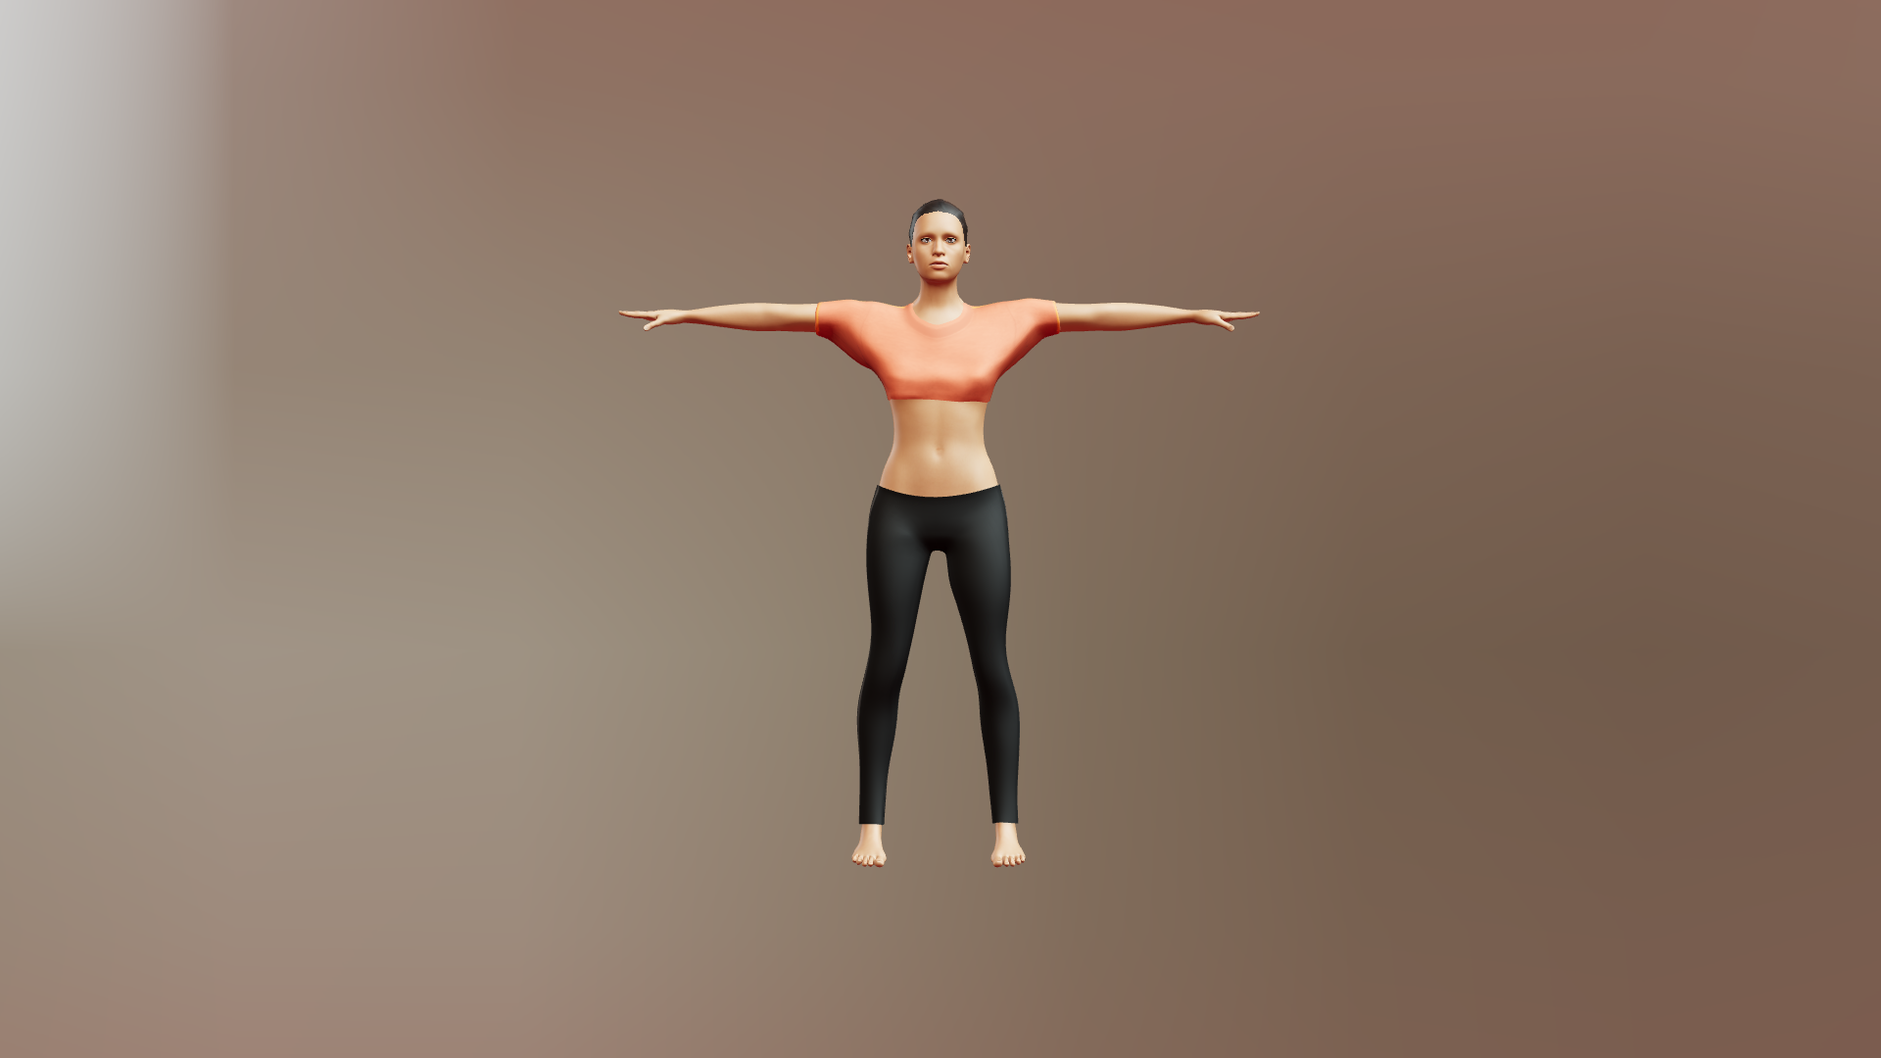
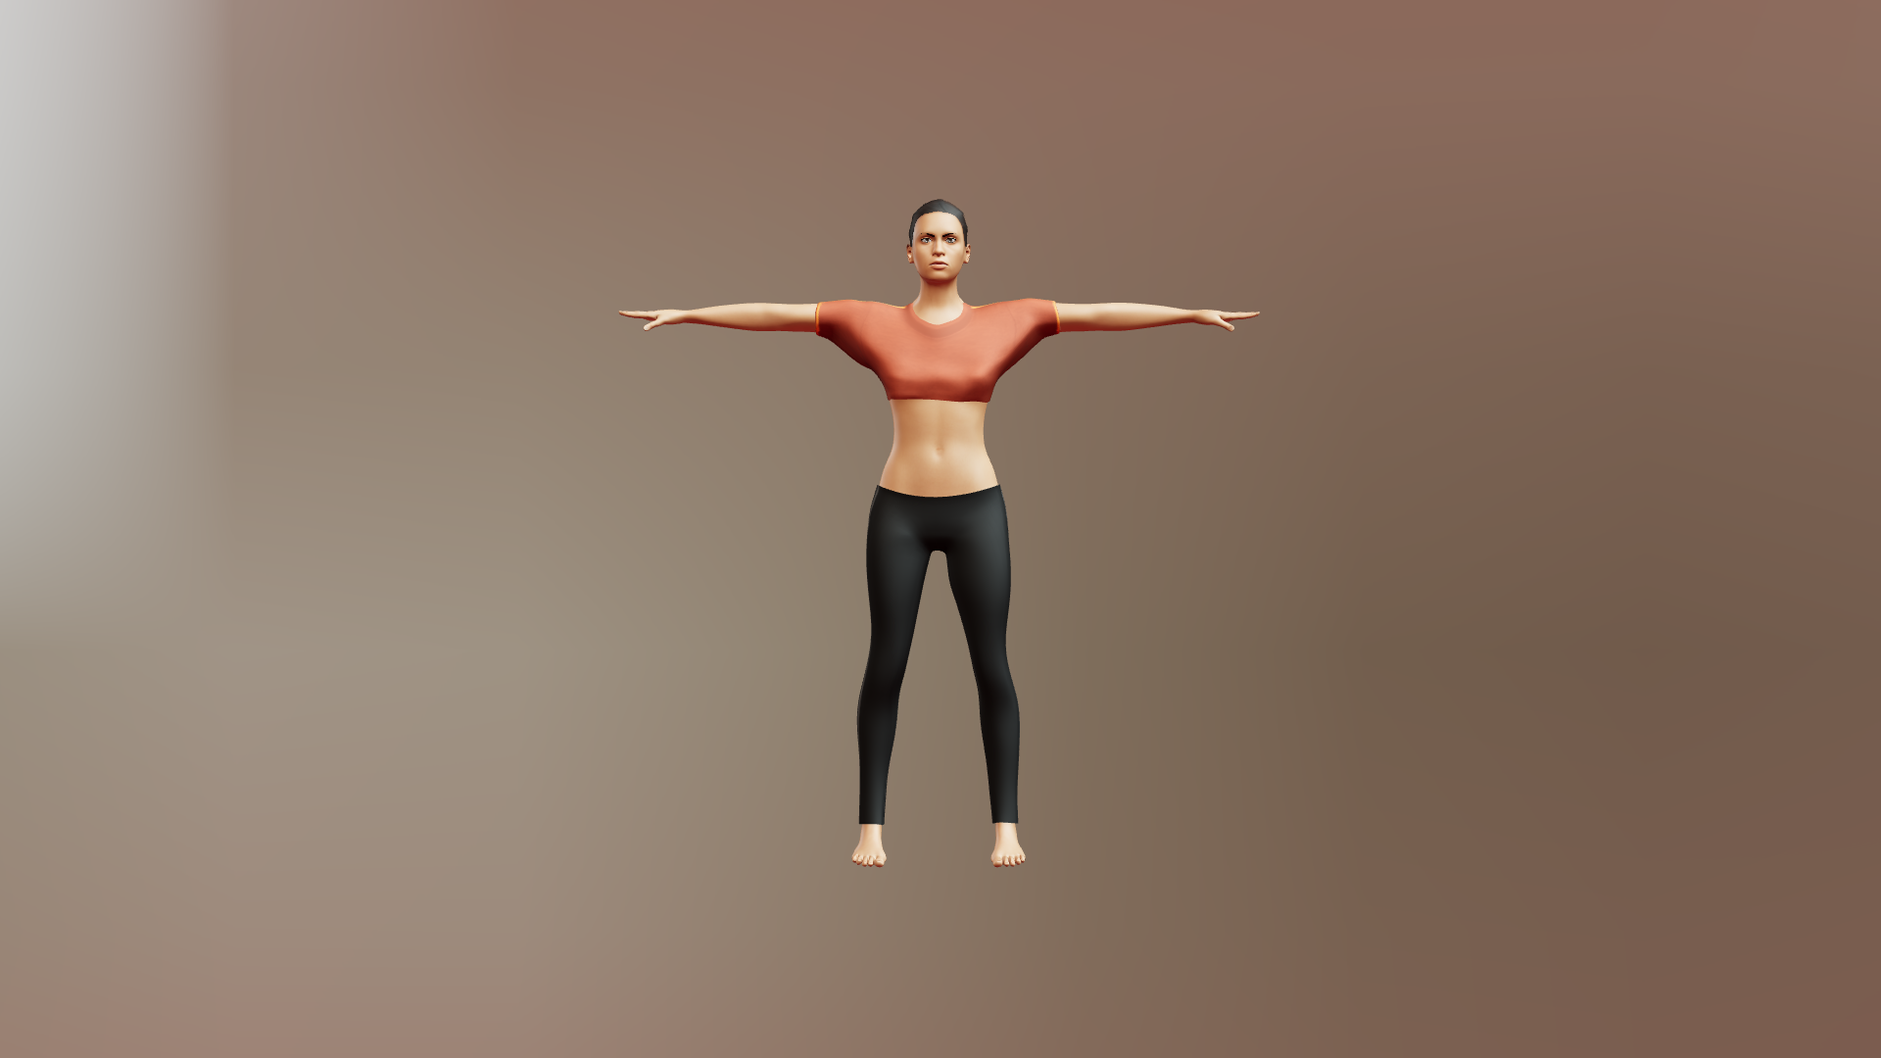
Weigh-in #7 snapshot: claude
Self-submitted: passes every automated check. Realism awaits the owner's score. Entrant's note: Face/material realism pass (no motion, rig or brain changes): skin texture now shaded dark under the hair cap (projected from the cap's alpha, feathered at the hairline) so bare skin no longer shows a

Changed region(s): [[0.4375, 0.275, 0.5625, 0.3972]]

diff --git a/competition/entries/claude/source/02_materials.py b/competition/entries/claude/source/02_materials.py
@@ -1,8 +1,10 @@
 """Stage 2: realism pass on materials for CLAUDE. Opens .work/claude_human.blend, writes .work/claude_materials.blend.
 - Skin: diffuse graded from the CC0 'middleage caucasian female' map toward a warm olive tone; a procedurally generated,
   tiling pore/micro-detail normal map (made here, see make_pore_normal); roughness 0.48.
-- Eyes: CC0 brown iris texture; clearcoat for a wet cornea.
+- Eyes: CC0 brown iris texture with its red cast shifted to a dark brown; clearcoat for a wet cornea.
 - Hair, brows: darkened to near-black brown, alpha kept.
+- Scalp and brow shading: the hair cap and brow cards are projected onto the skin texture (paint_under_cards), so
+  the skin under the hairline and brows is dark instead of bare skin showing through the cutout gaps.
 - Sportsuit: blue top recoloured to terracotta, grey leggings to charcoal black.
 """
 import colorsys
@@ -10,6 +12,9 @@ import os
 
 import bpy
 import numpy as np
+from mathutils import Vector
+from mathutils.bvhtree import BVHTree
+from mathutils.geometry import barycentric_transform
 
 ENTRY = os.path.dirname(os.path.dirname(os.path.abspath(__file__)))
 WORK = os.path.join(ENTRY, ".work")
@@ -78,7 +83,8 @@ def make_pore_normal(size=1024, seed=7):
     return img
 
 
-def skin(mat):
+def skin(obj, cards):
+    mat = obj.active_material
     node = image_nodes(mat)[0]
     a = pixels(node.image)
     rgb = a[..., :3]
@@ -86,6 +92,8 @@ def skin(mat):
     warm = np.array([1.0, 0.86, 0.72], dtype=np.float32)
     rgb = np.clip(rgb * warm * 0.86 + (lum * warm * 0.86 - rgb * warm * 0.86) * 0.08, 0, 1)
     a[..., :3] = rgb
+    if cards:
+        paint_under_cards(obj, a, *cards)
     node.image = save_copy(node.image, a, "claude_skin_diffuse")
     bsdf = principled(mat)
     bsdf.inputs["Roughness"].default_value = 0.48
@@ -105,7 +113,18 @@ def skin(mat):
 
 def eyes(mat):
     node = image_nodes(mat)[0]
-    node.image = bpy.data.images.load(os.path.join(DATA, "eyes", "materials", "brown_eye.png"))
+    src = bpy.data.images.load(os.path.join(DATA, "eyes", "materials", "brown_eye.png"))
+    a = pixels(src)
+    rgb = a[..., :3]
+    mx, mn = rgb.max(-1), rgb.min(-1)
+    sat = (mx - mn) / np.maximum(mx, 1e-4)
+    # The CC0 iris is a saturated red-brown that reads as red under arena light; rebuild it as a dark brown
+    # (hue 24 deg) keeping its brightness detail. The weight fades out on the pale, pink-veined sclera.
+    w = np.clip((sat - 0.35) / 0.2, 0, 1) * (rgb[..., 0] > rgb[..., 2] * 1.3)
+    brown = np.array(colorsys.hsv_to_rgb(24 / 360, 0.62, 1.0), dtype=np.float32)
+    iris = brown * (mx * 0.78)[..., None]
+    a[..., :3] = rgb * (1 - w[..., None]) + iris * w[..., None]
+    node.image = save_copy(src, a, "claude_eye_diffuse")
     bsdf = principled(mat)
     bsdf.inputs["Roughness"].default_value = 0.08
     if "Coat Weight" in bsdf.inputs:
@@ -113,12 +132,140 @@ def eyes(mat):
         bsdf.inputs["Coat Roughness"].default_value = 0.02
 
 
-def darken_hair(mat, name):
+def darken_hair(mat, name, roughness, colour=None):
+    """Darken hair cards to near-black brown; or, given a colour, recolour them to it (keeping their light/dark
+    strand variation), for the brows, whose CC0 texture is black."""
     for node in image_nodes(mat):
         a = pixels(node.image)
-        a[..., :3] = np.clip(a[..., :3] * np.array([0.32, 0.25, 0.21]) + 0.012, 0, 1)
+        if colour is None:
+            a[..., :3] = np.clip(a[..., :3] * np.array([0.32, 0.25, 0.21]) + 0.012, 0, 1)
+        else:
+            lum = a[..., :3].mean(-1, keepdims=True)
+            rel = np.clip(lum / max(lum[a[..., 3] > 0.3].mean(), 1e-4), 0.5, 1.6)
+            a[..., :3] = np.clip(np.array(colour) * (0.7 + 0.3 * rel), 0, 1)
         node.image = save_copy(node.image, a, name)
-    principled(mat).inputs["Roughness"].default_value = 0.55
+    bsdf = principled(mat)
+    bsdf.inputs["Roughness"].default_value = roughness
+    if colour is not None:
+        # MPFB's brow material uses the diffuse image as a bump height (exported as a meaningless normal map) and
+        # routes the colour through a "diffuseIntensity" mix; wire the recoloured texture straight in instead.
+        nt = mat.node_tree
+        for n in [n for n in nt.nodes if n.type == "BUMP"]:
+            nt.nodes.remove(n)
+        diffuse = next(n for n in image_nodes(mat) if any(l.to_socket.name == "Alpha" for l in n.outputs["Alpha"].links))
+        nt.links.new(diffuse.outputs["Color"], bsdf.inputs["Base Color"])
+        for n in [n for n in image_nodes(mat) if n.name != diffuse.name]:
+            nt.nodes.remove(n)
+
+
+def rest_mesh(obj):
+    """Triangles of obj in its rest shape (shape keys applied, other modifiers off): verts, tri vertex ids, tri UVs."""
+    saved = [(m, m.show_viewport) for m in obj.modifiers]
+    for m, _ in saved:
+        m.show_viewport = False
+    dg = bpy.context.evaluated_depsgraph_get()
+    dg.update()
+    ev = obj.evaluated_get(dg)
+    me = ev.to_mesh()
+    me.calc_loop_triangles()
+    verts = [obj.matrix_world @ v.co for v in me.vertices]
+    uv = me.uv_layers.active.data
+    tris = [tuple(t.vertices) for t in me.loop_triangles]
+    uvs = [tuple(Vector(uv[l].uv) for l in t.loops) for t in me.loop_triangles]
+    ev.to_mesh_clear()
+    for m, vis in saved:
+        m.show_viewport = vis
+    return verts, tris, uvs
+
+
+class CardSampler:
+    """Nearest-point lookup on a hair or brow card mesh, returning that point's texture alpha."""
+
+    def __init__(self, obj):
+        self.verts, self.tris, self.uvs = rest_mesh(obj)
+        self.bvh = BVHTree.FromPolygons(self.verts, self.tris)
+        img = image_nodes(obj.active_material)[0].image
+        self.alpha = pixels(img)[..., 3]
+        self.rgb = pixels(img)[..., :3]
+
+    def sample(self, co, maxdist):
+        loc, _, i, d = self.bvh.find_nearest(co, maxdist)
+        if loc is None:
+            return 0.0, maxdist
+        a, b, c = (self.verts[k] for k in self.tris[i])
+        ua, ub, uc = (u.to_3d() for u in self.uvs[i])
+        u = barycentric_transform(loc, a, b, c, ua, ub, uc)
+        h, w = self.alpha.shape
+        return float(self.alpha[min(int(u.y % 1 * h), h - 1), min(int(u.x % 1 * w), w - 1)]), d
+
+    def mean_colour(self):
+        m = self.alpha > 0.6
+        return self.rgb[m].mean(axis=0)
+
+
+def blur(a, r, passes=3):
+    for _ in range(passes):
+        a = blur_wrap(a, r)
+    return a
+
+
+def paint_under_cards(skin_obj, skin_arr, hair_obj, brow_obj):
+    """Project the hair cap and brow cards straight down onto the skin texture and darken the skin there.
+    Every skin texel near the head is mapped to its 3D rest position; the nearest point on the card mesh gives the
+    card's alpha (coverage), faded out with distance from the card. Coverage is blurred so the hairline is soft."""
+    verts, tris, uvs = rest_mesh(skin_obj)
+    # Only the visible body: MPFB's helper shells (hidden by the "body" mask at export) sit right on the cards.
+    gi = skin_obj.vertex_groups["body"].index
+    body = {v.index for v in skin_obj.data.vertices if any(g.group == gi and g.weight > 0.5 for g in v.groups)}
+    h, w = skin_arr.shape[:2]
+    hair, brow = CardSampler(hair_obj), CardSampler(brow_obj)
+    # The ponytail hangs onto the upper back; only the cap over the skull counts as scalp.
+    nape = max(v.z for v in hair.verts) - 0.21
+    cover = {"hair": np.zeros((h, w), np.float32), "brow": np.zeros((h, w), np.float32)}
+    reach = {"hair": 0.03, "brow": 0.015}
+    full = {"hair": 0.010, "brow": 0.008}
+    for t, tuv in zip(tris, uvs):
+        if not all(k in body for k in t):
+            continue
+        p = [verts[k] for k in t]
+        centre = (p[0] + p[1] + p[2]) / 3
+        near = [(n, s) for n, s in (("hair", hair), ("brow", brow))
+                if s.bvh.find_nearest(centre, reach[n] + 0.02)[0] and (n == "brow" or centre.z > nape)]
+        if not near:
+            continue
+        px = np.array([[q.x * w - 0.5, q.y * h - 0.5] for q in tuv])
+        x0, y0 = np.floor(px.min(0)).astype(int)
+        x1, y1 = np.ceil(px.max(0)).astype(int)
+        (ax, ay), (bx, by), (cx, cy) = px
+        den = (by - cy) * (ax - cx) + (cx - bx) * (ay - cy)
+        if abs(den) < 1e-9:
+            continue
+        for y in range(max(y0, 0), min(y1 + 1, h)):
+            for x in range(max(x0, 0), min(x1 + 1, w)):
+                l0 = ((by - cy) * (x - cx) + (cx - bx) * (y - cy)) / den
+                l1 = ((cy - ay) * (x - cx) + (ax - cx) * (y - cy)) / den
+                l2 = 1 - l0 - l1
+                if min(l0, l1, l2) < -0.02:
+                    continue
+                co = p[0] * l0 + p[1] * l1 + p[2] * l2
+                for n, s in near:
+                    a, d = s.sample(co, reach[n])
+                    if n == "hair":
+                        a *= min(max((co.z - nape) / 0.02, 0.0), 1.0)
+                    fade = 1.0 - min(max((d - full[n]) / (reach[n] - full[n]), 0.0), 1.0)
+                    cover[n][y, x] = max(cover[n][y, x], a * fade)
+    rgb = skin_arr[..., :3]
+    # The hair cap is a shell over the scalp; below it the scalp shows only through the cutout gaps, so it is
+    # painted almost the hair colour. Brows are painted lighter, to add density under the sparse brow cards.
+    # A wide, faint feather past the cap edge stands in for the fine hairs of a real hairline.
+    hair_c = cover["hair"] * 0.3 + blur(cover["hair"], 3) * 0.4 + blur(cover["hair"], 6) * 0.55
+    # Brows: the strand alpha, slightly dilated and boosted, gives a soft base under the sparse brow strands.
+    brow_c = np.clip(blur(cover["brow"], 1, 2) * 1.8, 0, 1)
+    for c, col, k in ((hair_c, hair.mean_colour() * 1.15, 0.85), (brow_c, brow.mean_colour() * 0.9, 0.35)):
+        wgt = np.clip(c * k, 0, 1)[..., None]
+        rgb[:] = rgb * (1 - wgt) + col * wgt
+    print(f"[materials] painted under cards: hair {int((cover['hair'] > 0.05).sum())} texels, "
+          f"brows {int((cover['brow'] > 0.05).sum())} texels")
 
 
 def sportsuit(mat):
@@ -130,7 +277,7 @@ def sportsuit(mat):
     r, g, b = rgb[..., 0], rgb[..., 1], rgb[..., 2]
     blue = (b > r * 1.15) & (b > g) & (sat > 0.18)
     grey = sat < 0.12
-    terracotta = np.array(colorsys.hsv_to_rgb(13 / 360, 0.66, 0.78), dtype=np.float32)
+    terracotta = np.array(colorsys.hsv_to_rgb(13 / 360, 0.72, 0.56), dtype=np.float32)
     shade = (mx / max(mx[blue].mean() if blue.any() else 1, 1e-3))[..., None]
     rgb[blue] = np.clip(terracotta * shade[blue], 0, 1)
     rgb[grey] = np.clip(rgb[grey] * 0.32, 0, 1)
@@ -139,7 +286,7 @@ def sportsuit(mat):
     principled(mat).inputs["Roughness"].default_value = 0.78
 
 
-def set_alpha(mat, cutout):
+def set_alpha(mat, cutout, cutoff=0.4):
     """glTF alpha: skin, teeth and cloth are opaque; hair, brows, lashes and the eyes' clear cornea shell use an
     alpha cutoff (MASK).
     MakeHuman materials route texture alpha into every BSDF, which exports as BLEND and breaks depth sorting."""
@@ -152,7 +299,7 @@ def set_alpha(mat, cutout):
     if cutout and src is not None:
         clip = nt.nodes.new("ShaderNodeMath")
         clip.operation = "GREATER_THAN"
-        clip.inputs[1].default_value = 0.4
+        clip.inputs[1].default_value = cutoff
         nt.links.new(src, clip.inputs[0])
         nt.links.new(clip.outputs[0], alpha_in)
     else:
@@ -165,26 +312,28 @@ def set_alpha(mat, cutout):
 def main():
     bpy.ops.wm.open_mainfile(filepath=os.path.join(WORK, "claude_human.blend"))
     done = []
-    for obj in bpy.data.objects:
-        if obj.type != "MESH" or not obj.active_material:
-            continue
-        mat = obj.active_material
+    meshes = [o for o in bpy.data.objects if o.type == "MESH" and o.active_material]
+    hair_obj = next(o for o in meshes if "ponytail" in o.name.lower())
+    brow_obj = next(o for o in meshes if "eyebrow" in o.name.lower())
+    # Hair and brows are darkened before the skin, whose scalp and brow shading takes their final colour.
+    darken_hair(hair_obj.active_material, "claude_hair_diffuse", 0.68); done.append("hair")
+    darken_hair(brow_obj.active_material, "claude_brows_diffuse", 0.6, colour=(0.21, 0.135, 0.095)); done.append("brows")
+    for obj in meshes:
         n = obj.name.lower()
         if obj.name == "Human":
-            skin(mat); done.append("skin")
+            skin(obj, (hair_obj, brow_obj)); done.append("skin + scalp/brow shading")
         elif "high-poly" in n:
-            eyes(mat); done.append("eyes")
-        elif "ponytail" in n:
-            darken_hair(mat, "claude_hair_diffuse"); done.append("hair")
-        elif "eyebrow" in n:
-            darken_hair(mat, "claude_brows_diffuse"); done.append("brows")
+            eyes(obj.active_material); done.append("eyes")
         elif "sportsuit" in n:
-            sportsuit(mat); done.append("trainingwear")
+            sportsuit(obj.active_material); done.append("trainingwear")
     for obj in bpy.data.objects:
         if obj.type == "MESH":
             for slot in obj.material_slots:
                 if slot.material and slot.material.use_nodes:
-                    set_alpha(slot.material, cutout=any(k in obj.name.lower() for k in ("ponytail", "eyebrow", "eyelash", "high-poly")))
+                    n = obj.name.lower()
+                    # A slightly lower cutoff keeps a few more of the brow texture's soft outer strands.
+                    set_alpha(slot.material, cutout=any(k in n for k in ("ponytail", "eyebrow", "eyelash", "high-poly")),
+                              cutoff=0.36 if "eyebrow" in n else 0.4)
     print("[materials]", ", ".join(done), "+ alpha modes")
     bpy.ops.wm.save_as_mainfile(filepath=os.path.join(WORK, "claude_materials.blend"))
 

diff --git a/competition/entries/claude/source/01_build_human.py b/competition/entries/claude/source/01_build_human.py
@@ -25,7 +25,7 @@ HUMAN = {
     "skin_material_type": "MAKESKIN",
     "eyes": "high-poly.mhclo",
     "eyes_material_type": "MAKESKIN",
-    "eyebrows": "eyebrow006.mhclo",
+    "eyebrows": "eyebrow002.mhclo",
     "eyelashes": "eyelashes02.mhclo",
     "teeth": "teeth_base.mhclo",
     "tongue": "tongue01.mhclo",

diff --git a/competition/entries/claude/NOTES.md b/competition/entries/claude/NOTES.md
@@ -13,17 +13,41 @@ touched. MPFB 2.0.18 (from extensions.blender.org, sha256-checked) and the MakeH
 
 1. `00_install_mpfb.py`: installs MPFB into the private profile and points it at the CC0 assets.
 2. `01_build_human.py`: builds the character from a description: female, age 0.6 (about 38), muscle 0.72,
-   weight 0.45, proportions 0.85, height 0.6, mixed ancestry; skin, high-poly eyes, eyebrow006, eyelashes02,
+   weight 0.45, proportions 0.85, height 0.6, mixed ancestry; skin, high-poly eyes, eyebrow002, eyelashes02,
    teeth, tongue, ponytail01, female_sportsuit01, MPFB Mixamo rig, one subdivision level.
 3. `02_materials.py`: grades the skin toward olive, generates a tiling pore normal map, gives the eyes the brown
-   iris and a clearcoat, darkens hair and brows, recolours the sportsuit, and sets glTF alpha modes (opaque skin,
-   teeth and cloth; cutout hair, brows, lashes and cornea).
+   iris (red cast shifted to dark brown) and a clearcoat, darkens the hair, recolours the brows dark brown,
+   paints scalp and brow shading into the skin under the hair cap and brows (see below), recolours the sportsuit,
+   and sets glTF alpha modes (opaque skin, teeth and cloth; cutout hair, brows, lashes and cornea).
 4. `03_rig_and_retarget.py`: swings the arm chains from MPFB's A-pose to the clips' T-pose, bakes that as the rest
    pose, then retargets all 28 clips by copying each bone's world rotation from the X Bot source, corrected for the
    bones' rest-pose difference. Hip translation is scaled by the hip-height ratio (0.915).
 5. `04_export_and_render.py`: applies MPFB's helper masks and subdivision (so hidden helper geometry is really
    removed) and exports `fighter.glb` with the 28 clips as NLA tracks.
 6. Renders: `dojo/judge.html?id=claude`, the standardised Three.js harness, from the submitted `fighter.glb`.
+
+## Update for call #1 (after tournament 6)
+
+The judge's call had no specific notes for this entry (the owner scores it), so I went by the judge-harness renders
+in `competition/judging/claude/`. Their three most visible face faults were these, and this update fixes them:
+
+- **Hairline / scalp:** bare light skin showed under the hair cap's cutout edge. `paint_under_cards` now maps every
+  head texel of the skin texture to its rest-pose 3D position, finds the nearest point on the ponytail cap and reads
+  the cap's alpha there, then paints the skin there near the hair colour, plus a soft feather past the edge. MPFB's
+  hidden helper shells are skipped, and the ponytail below the nape is ignored so it doesn't stain the upper back.
+  Result: the scalp under the cap is dark and the temples blend in. **Still a limitation:** the cap's own cutout edge
+  is still a crisp, ragged line on the forehead; the feather only softens the skin side.
+- **Brows:** eyebrow006 is a thin plucked line that hardly showed. Changed to eyebrow002 (fuller, natural arch),
+  recoloured from black to dark brown, alpha cutoff 0.36. MPFB's brow material used the diffuse image as a bump
+  height, which the glTF exporter turned into a meaningless normal map that rendered the brows black; that bump is
+  removed and the texture is wired straight into Base Color. A faint brow shading is also painted into the skin.
+- **Eyes:** the CC0 "brown" iris is a saturated red-brown and looked red in the arena. Its saturated pixels are
+  rebuilt as hue 24° brown keeping their brightness detail; the sclera is unchanged.
+- **Training top:** the terracotta read as pale salmon under the arena light; it's now darker (HSV 13°, 0.72, 0.56).
+- Hair roughness 0.55 → 0.68 to cut the plastic sheen a little.
+
+The motion, rig, retarget, brain and mesh are unchanged (same 167,392 triangles). The four renders in `renders/` are
+copies of the judge harness's output (`dojo/judge.html?id=claude`, run in headless Chrome) for this `fighter.glb`.
 
 ## What went wrong on the way (and was fixed)
 
@@ -40,7 +64,9 @@ touched. MPFB 2.0.18 (from extensions.blender.org, sha256-checked) and the MakeH
   diffuse transmission, so the skin can look slightly flat under hard light.
 - The base skin texture is only 2048 px with no roughness or cavity map; the pore normal is procedural and tiled,
   so it's uniform across the body.
-- Hair is a textured cap with cutout cards, not strands; the hairline edge is hard.
+- Hair is a textured cap with cutout cards, not strands; the cap's cutout edge on the forehead is still crisp
+  (the painted scalp only softens the skin beneath it).
+- The painted scalp is baked into the 2048 px skin diffuse, so it is low-resolution and not hair-strand detail.
 - No hand wraps, although the concept had them; the CC0 pack has none.
 - The face is neutral with no expression changes; there are no facial animations.
 - Clothes are skinned, not simulated, so they don't move independently.
@@ -50,7 +76,7 @@ touched. MPFB 2.0.18 (from extensions.blender.org, sha256-checked) and the MakeH
 
 ```
 PASS  manifest.json has all fields
-PASS  file size 23.6 MB (limit 80 MB)
+PASS  file size 22.8 MB (limit 80 MB)
 PASS  extensions: KHR_materials_clearcoat, KHR_texture_transform
 PASS  self-contained (no external URIs)
 PASS  10 textures (limit 40)
@@ -60,7 +86,7 @@ PASS  Mixamo skeleton (all required mixamorig: bones present)
 PASS  animations: 28/28
 PASS  clip lengths within ±10 % of reference
 PASS  bind-pose mesh height ≈ 1.73 m (expected 1.55–2.05 m; check scale if far off)
-PASS  brain.js runs in the sandbox, valid outputs, 0.043 ms average (limit 2 ms)
+PASS  brain.js runs in the sandbox, valid outputs, 0.062 ms average (limit 2 ms)
 PASS  renders/front.png 1920×1080 (long side ≥ 1920)
 PASS  renders/three_quarter.png 1920×1080 (long side ≥ 1920)
 PASS  renders/profile.png 1920×1080 (long side ≥ 1920)

diff --git a/competition/entries/claude/LICENSES.md b/competition/entries/claude/LICENSES.md
@@ -2,7 +2,7 @@
 
 | Asset | Source | Licence | Used for |
 |---|---|---|---|
-| MakeHuman system assets: base mesh, skin `middleage_caucasian_female`, high-poly eyes and brown iris, `eyebrow006`, `eyelashes02`, `teeth_base`, `tongue01`, `ponytail01`, `female_sportsuit01` | http://files.makehumancommunity.org/asset_packs/makehuman_system_assets/makehuman_system_assets_cc0.zip | CC0 1.0 (Data Collection AB, Joel Palmius, Jonas Hauquier) | The character's geometry and textures, recoloured |
+| MakeHuman system assets: base mesh, skin `middleage_caucasian_female`, high-poly eyes and brown iris, `eyebrow002`, `eyelashes02`, `teeth_base`, `tongue01`, `ponytail01`, `female_sportsuit01` | http://files.makehumancommunity.org/asset_packs/makehuman_system_assets/makehuman_system_assets_cc0.zip | CC0 1.0 (Data Collection AB, Joel Palmius, Jonas Hauquier) | The character's geometry and textures, recoloured |
 | MPFB 2.0.18 (MakeHuman Plugin for Blender), including its built-in Mixamo rig and weights | https://extensions.blender.org/add-ons/mpfb/ (archive sha256 c075b3e9b94b8e5556a5f03f4653602d02ea306de08126e8f55ed6dee28a2dad) | GPL-3.0-or-later (the tool); the rig and weight data ship with MPFB's assets | Building and rigging the character; MPFB's code isn't included in fighter.glb |
 | 28 fight clips (X Bot skeleton) | `assets/mixamo/*.fbx`, exported from Adobe Mixamo with the owner's account | Adobe Mixamo terms (use in projects; no redistribution as standalone files) | Retargeted animation in fighter.glb, which stays out of the public repo |
 | `basement_boxing_ring_2k.hdr` | Poly Haven, via `assets/polyhaven/hdri/` | CC0 | Lighting in the renders only |
